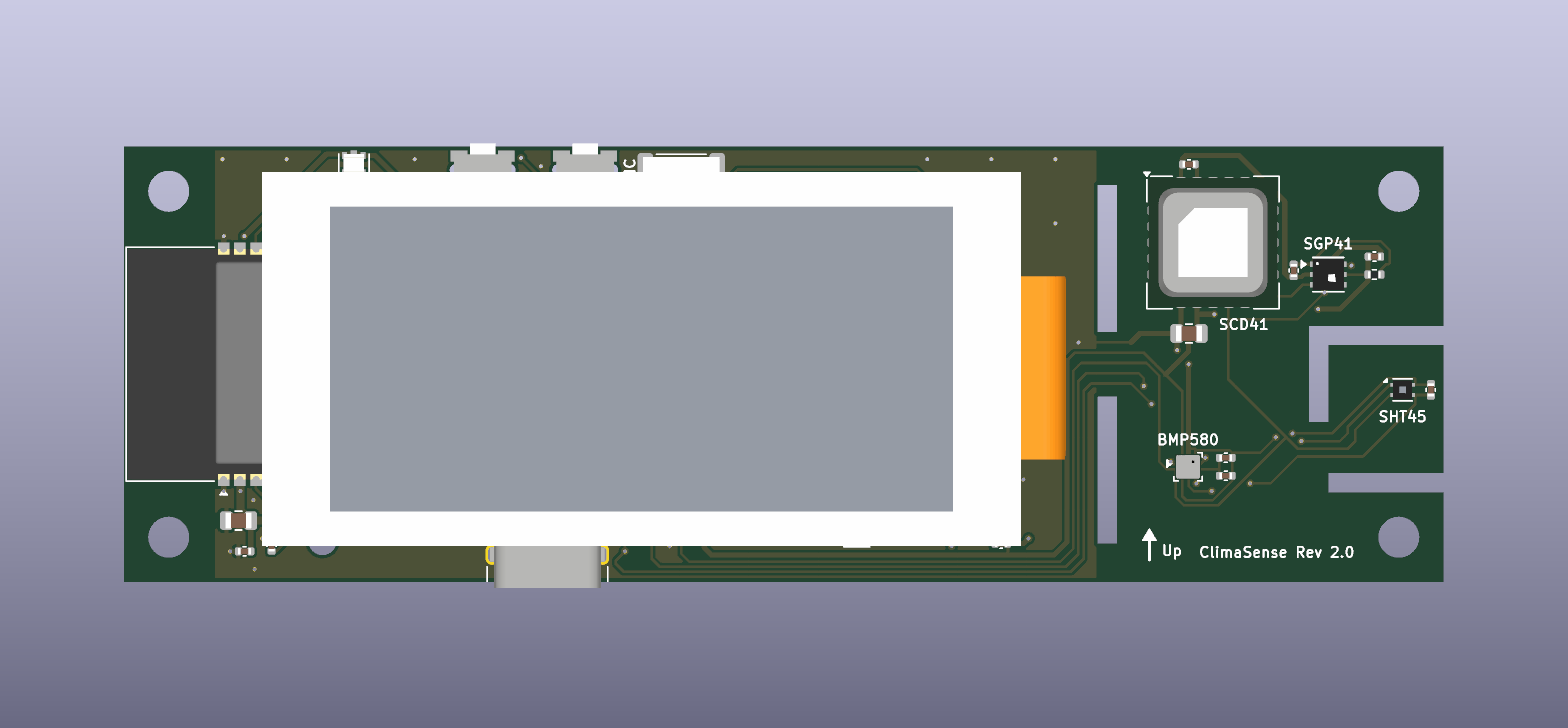
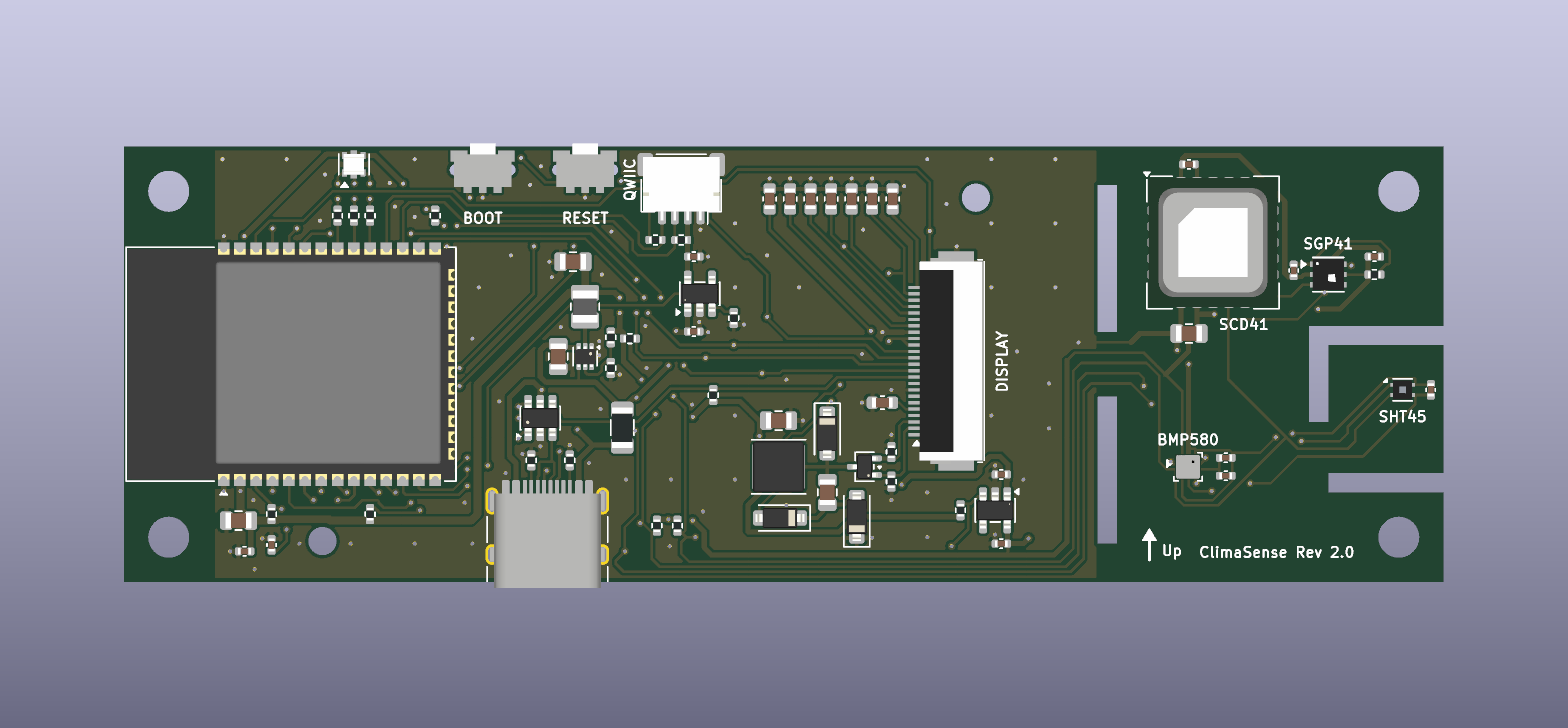
README: revision 2.0 shown without the display below the top picture
The angled view at the top of the page keeps the panel, on its frame's
height. The views from above and from the back in the revision 2.0 section
are of the board alone, since the panel covers the whole controller side;
gen_images.py renders them from a copy of the board without the panel and
its tail. board-parts.png, which was that view, is gone: board-top.png is
it now. The section's text describes the reworked arrangement.

Changed region(s): [[0.1562, 0.2115, 0.6875, 0.7555]]

diff --git a/hardware/rev-2.0/tools/gen_images.py b/hardware/rev-2.0/tools/gen_images.py
@@ -1,10 +1,12 @@
 """Write the pictures of the board that the README and the layout notes show, into docs/images/:
 
   board-angle.png     3D view from the front left, the display panel on its frame's height
-  board-top.png       3D view straight from above: what faces the room
-  board-parts.png     the same without the panel: the parts under it
+  board-top.png       3D view straight from above, without the panel: the parts under it
   board-bottom.png    3D view of the back, with the test pads
   board-fpc.png       close-up of the panel's FPC tail folding back under the panel into its connector
+
+Only the angled view and the close-up show the panel (2026-11-24, Norman): it covers the whole
+controller side, so the views from above and from the back are of the board alone.
   copper-top.svg      top copper layer with the board outline
   copper-bottom.svg   bottom copper layer, seen from above through the board (not mirrored)
 
@@ -84,24 +86,24 @@ def main():
     # round (a camera light washes the whole board out), so that view keeps the default lights.
     render("board-angle.png", 1600, 800, "--perspective", "--rotate", "-35,0,-20", "--zoom", "1.3", "--pan", "-0.3,0.3,0",
            "--light-side", "0", "--light-camera", "1")
-    render("board-top.png", 1600, 760, "--side", "top", "--zoom", "1.8")
-    # The parts under the panel: the same view of a copy of the board without the panel and its
-    # tail (gen_pcb.py writes it, next to the board so that the 3D models are found).
+    # close-up of the FPC tail: out of the glass, down in a half circle and back under the panel into J5
+    render("board-fpc.png", 1600, 900, "--rotate", "-70,0,-20", "--zoom", "2.6", "--pan", "-6,0,0",
+           "--light-side", "0", "--light-camera", "1")
+    # From above and from the back the board is shown without the panel and its tail, which would
+    # hide the controller side: a copy of the board without them (gen_pcb.py writes it, next to the
+    # board so that the 3D models are found).
     bare = HW / "climasense-without-panel.kicad_pcb"
     r = subprocess.run([KICAD_PYTHON, str(HW / "tools" / "gen_pcb.py"), f"--without-panel={bare}"],
                        capture_output=True, text=True)
     if r.returncode != 0:
         raise SystemExit(f"gen_pcb.py --without-panel failed:\n{r.stdout}\n{r.stderr}")
     try:
-        render("board-parts.png", 1600, 760, "--side", "top", "--zoom", "1.8", board=bare)
+        render("board-top.png", 1600, 760, "--side", "top", "--zoom", "1.8", board=bare)
+        # the back, with the test pads and their labels
+        render("board-bottom.png", 1600, 760, "--side", "bottom", "--zoom", "1.8", board=bare)
     finally:
         for ext in (".kicad_pcb", ".kicad_pro", ".kicad_prl"):
             bare.with_suffix(ext).unlink(missing_ok=True)
-    # close-up of the FPC tail: out of the glass, down in a half circle and back under the panel into J5
-    render("board-fpc.png", 1600, 900, "--rotate", "-70,0,-20", "--zoom", "2.6", "--pan", "-6,0,0",
-           "--light-side", "0", "--light-camera", "1")
-    # the back, with the test pads and their labels
-    render("board-bottom.png", 1600, 760, "--side", "bottom", "--zoom", "1.8")
     copper("copper-top.svg", "F.Cu")
     copper("copper-bottom.svg", "B.Cu")
     for f in sorted(OUT.iterdir()):

diff --git a/README.md b/README.md
@@ -25,13 +25,15 @@ How the board is laid out and why: [`docs/hardware/layout.md`](docs/hardware/lay
 
 Revision 2.0 adds a 2.13" black-and-white e-paper panel and is 103 × 34 mm. **It is still being designed and has not been built or ordered.** Its notes: [`docs/hardware/rev-2.0.md`](docs/hardware/rev-2.0.md).
 
-All parts sit on the side that faces the wall. The buttons and the status LED move to the top edge, and the sensors keep their arrangement behind the slot:
+The parts face the room, as on revision 1.0. The panel lies above them, on a printed frame 4.6 mm above the board that is not designed yet; its flexible tail folds back under it into a connector. The picture at the top of this page shows the panel in place; the pictures below show the board without it.
 
-![Revision 2.0 from above (component side, facing the wall)](docs/images/rev-2.0/board-top.png)
+The panel covers everything from the module to the display connector. The buttons and the status LED are on the top edge, and the sensors keep their arrangement behind the slot:
 
-The panel sits on the back, the side that faces the room. Its flexible tail runs through a slot in the board into a connector on the component side:
+![Revision 2.0 from above, without the display panel](docs/images/rev-2.0/board-top.png)
 
-![Revision 2.0 from the back, with the display panel in place](docs/images/rev-2.0/board-bottom.png)
+The back carries no parts, only the test pads:
+
+![Revision 2.0 from the back](docs/images/rev-2.0/board-bottom.png)
 
 The copper of the two layers. Most tracks run on the component side; the back is mostly ground. Both are drawn as seen from the component side, the bottom layer through the board, so the two pictures line up:
 
@@ -50,7 +52,7 @@ The copper of the two layers. Most tracks run on the component side; the back is
 ## Status
 
 - **Hardware, revision 1.0:** schematic and board are finished and pass KiCad's rule checks; the order files for JLCPCB are in [`hardware/rev-1.0/fab/`](hardware/rev-1.0/fab/). Not manufactured yet, and not reviewed by a second person.
-- **Hardware, revision 2.0:** in design (e-paper display on the back); the board routes completely and passes KiCad's rule checks, but it is not finished and not ordered.
+- **Hardware, revision 2.0:** in design (e-paper display above the parts, on a frame); the board routes completely and passes KiCad's rule checks, but it is not finished and not ordered.
 - **Firmware:** in progress, and so far only built, not run on hardware. See [`firmware/README.md`](firmware/README.md) and [`docs/firmware/architecture.md`](docs/firmware/architecture.md).
 
 What was decided and why: [`docs/decisions.md`](docs/decisions.md). The component research behind it: [`docs/research/hardware-options.md`](docs/research/hardware-options.md).

diff --git a/docs/hardware/rev-2.0.md b/docs/hardware/rev-2.0.md
@@ -8,7 +8,7 @@ Background: section 6 of [`next-revision.md`](next-revision.md).
 
 **Everything below this section still describes the board as it was checked on 2026-11-23: parts towards the wall, panel on the bare back, tail through a slot. That board was changed on 2026-11-24 (Norman). This section is what was decided and what came of it; the rest of this document has still to be rewritten.**
 
-**State (2026-11-24, evening):** schematic changed, no ERC violation, netlist as intended. Board placed and routed by `gen_pcb.py` with `ROUTE_SEED` 1 (five of twelve seeds route it completely; a plain run from scratch gives the same copper as the batch did: 210 vias). `check_pcb.py --require-routed`: no DRC violation, no difference to the schematic, no open connection. `audit_pcb.py`: no net crosses itself or has a loop, no track meets a pad off its centre lines; four right-angle corners and twelve jogs remain (listed in its output). Pictures in [`../images/rev-2.0/`](../images/rev-2.0/) are of this board (`board-parts.png`: without the panel). **Not done:** the check before ordering (parts, footprints, pins against the datasheets, ground, the new boost layout); `gen_fab.py` for the pads on the back and the new resistor; the frame, the case; the firmware's pin map. Why and how it was worked out: section 7 of [`next-revision.md`](next-revision.md) (the variant, the tail's fold, the case concept).
+**State (2026-11-24, evening):** schematic changed, no ERC violation, netlist as intended. Board placed and routed by `gen_pcb.py` with `ROUTE_SEED` 1 (five of twelve seeds route it completely; a plain run from scratch gives the same copper as the batch did: 210 vias). `check_pcb.py --require-routed`: no DRC violation, no difference to the schematic, no open connection. `audit_pcb.py`: no net crosses itself or has a loop, no track meets a pad off its centre lines; four right-angle corners and twelve jogs remain (listed in its output). Pictures in [`../images/rev-2.0/`](../images/rev-2.0/) are of this board; only the angled view and the close-up of the tail show the panel, the views from above and from the back are of the board alone (Norman, 2026-11-24). **Not done:** the check before ordering (parts, footprints, pins against the datasheets, ground, the new boost layout); `gen_fab.py` for the pads on the back and the new resistor; the frame, the case; the firmware's pin map. Why and how it was worked out: section 7 of [`next-revision.md`](next-revision.md) (the variant, the tail's fold, the case concept).
 
 Decided (2026-11-24, Norman):
 
